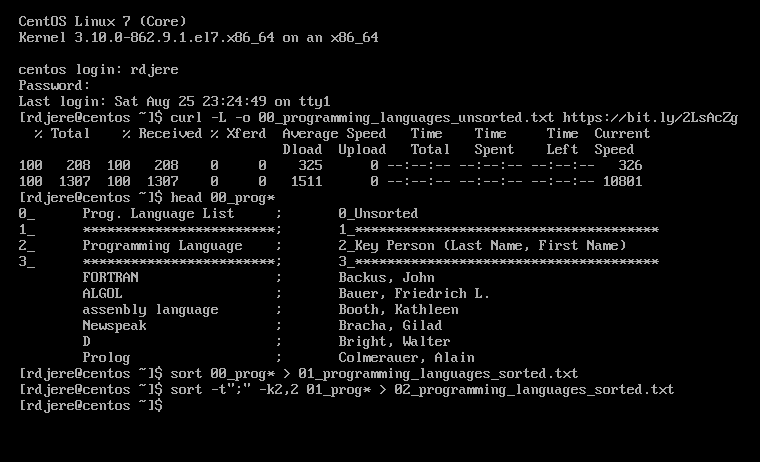
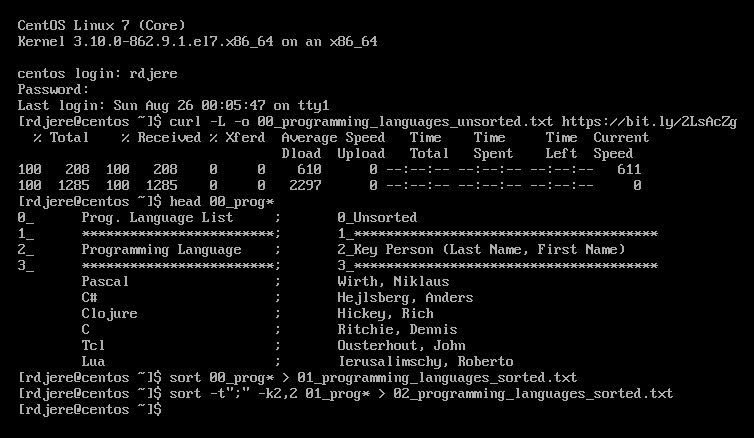
Added sort - example 1. Updated Anki shared deck link.

Changed region(s): [[0.0, 0.0297, 0.9761, 0.9498], [0.0, 0.5046, 0.061, 0.5936]]

diff --git a/README.md b/README.md
@@ -17,7 +17,7 @@ To build this study guide, I am using the following <a href="https://www.fsf.org
 - Freemind (for mind maps): http://freemind.sourceforge.net/wiki/index.php/Main_Page
 - Zim Desktop Wiki: http://zim-wiki.org/
 - Anki (for flashcards): https://apps.ankiweb.net/
-	- The Anki flashcard deck is shared here: https://ankiweb.net/shared/info/262014892
+	- The Anki flashcard deck is shared here: https://ankiweb.net/shared/info/1290035191
 	- See here for important information about how I share the flashcard deck on Anki: 
 		[Anki Shared Deck](anki/Anki_Shared_Deck.md)
 - git/git-gui (version control): https://git-scm.com/
